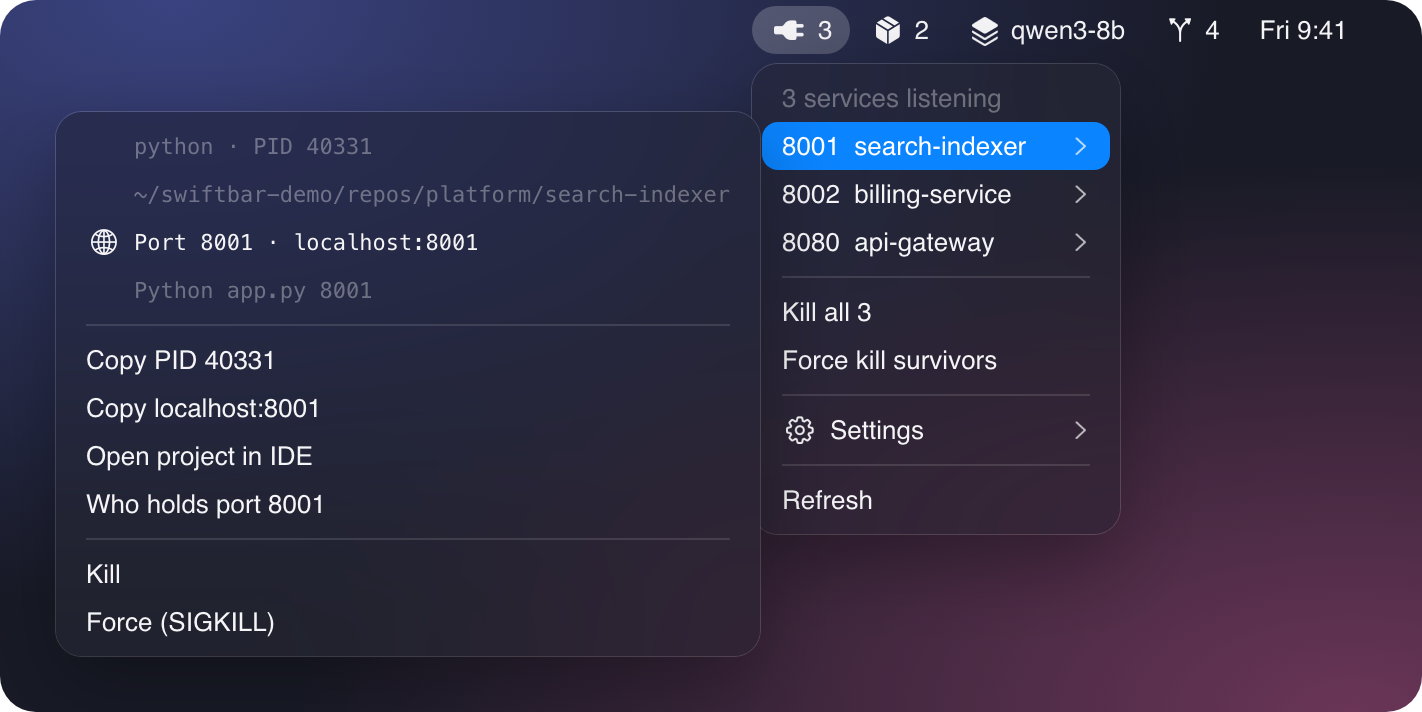
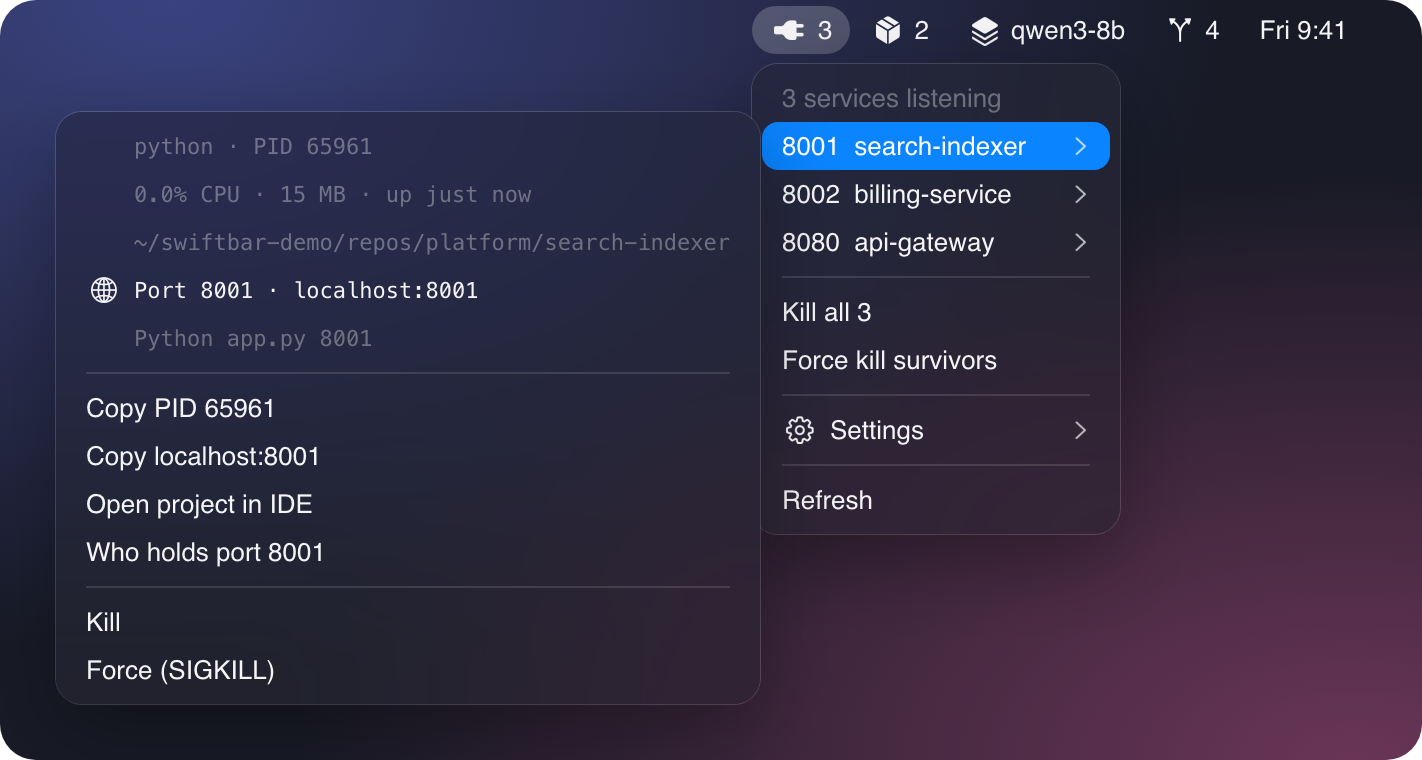
Add background fetch, pull requests and service usage

diff --git a/plugins/devports.15s.py b/plugins/devports.15s.py
@@ -281,17 +281,44 @@ def process_tree():
 
 
 def start_times(pids):
-    """{pid: process start time}. The executable name alone cannot tell two
+    """{pid: (start time, usage)}. The executable name alone cannot tell two
     processes apart — every JVM is `java` — so a recycled PID would pass the
-    kill guard. The start time is what makes the identity unique."""
+    kill guard. The start time is what makes the identity unique.
+
+    Usage rides along in the same ps call: "0.4% CPU · 38 MB · up 2 h". lstart
+    goes last because it is the one column with spaces in it."""
     if not pids:
         return {}
     out = {}
-    for line in run([PS, "-o", "pid=,lstart=", "-p", ",".join(pids)]).splitlines():
-        parts = line.strip().split(None, 1)
-        if len(parts) == 2 and parts[0].isdigit():
-            out[parts[0]] = parts[1].strip()
+    for line in run([PS, "-o", "pid=,%cpu=,rss=,etime=,lstart=", "-p", ",".join(pids)]).splitlines():
+        parts = line.strip().split(None, 4)
+        if len(parts) == 5 and parts[0].isdigit():
+            out[parts[0]] = (parts[4].strip(), usage(parts[1], parts[2], parts[3]))
     return out
+
+
+def usage(cpu, rss_kb, etime):
+    """ps's raw columns, as the submenu shows them."""
+    try:
+        mb = int(rss_kb) / 1024.0
+    except ValueError:
+        return ""
+    mem = "{:.1f} GB".format(mb / 1024) if mb >= 1024 else "{:.0f} MB".format(mb)
+    return "{}% CPU · {} · up {}".format(cpu, mem, uptime(etime))
+
+
+def uptime(etime):
+    """[[dd-]hh:]mm:ss → the same wording as the other bars: 5 min, 3 h, 2 d."""
+    days, _, rest = etime.rpartition("-")
+    fields = [int(f) for f in rest.split(":") if f.isdigit()]
+    while len(fields) < 3:
+        fields.insert(0, 0)
+    h, m = fields[0], fields[1]
+    if days.isdigit():
+        return "{} d".format(int(days))
+    if h:
+        return "{} h".format(h)
+    return "{} min".format(m) if m else "just now"
 
 
 def arguments(pids):
@@ -775,7 +802,8 @@ def main():
             "origin": came_from,
             "cmd": shown,
             "comm": os.path.basename(comm),
-            "start": starts.get(pid, ""),
+            "start": starts.get(pid, ("", ""))[0],
+            "usage": starts.get(pid, ("", ""))[1],
         })
 
     services.sort(key=lambda s: (s["primary"], s["name"]))
@@ -804,6 +832,8 @@ def main():
         if s["origin"]:
             detail += " · {}".format(s["origin"])
         print("--{} | {}".format(clean(detail), MONO))
+        if s["usage"]:
+            print("--{} | {}".format(s["usage"], MONO))
         if s["project"]:
             home = os.path.expanduser("~")
             path = s["project"]

diff --git a/README.md b/README.md
@@ -25,7 +25,7 @@ cd swiftbar-devkit && bash install.sh
 <p align="center">
   <picture>
     <source media="(prefers-color-scheme: dark)" srcset="docs/screenshots/repos-dark.png">
-    <img src="docs/screenshots/repos-light.png" alt="The four bars in the menu bar, with the Repos menu open on a repository that is behind, ahead and has changes" width="828">
+    <img src="docs/screenshots/repos-light.png" alt="The four bars in the menu bar, with the Repos menu open on a branch whose pull request has failing checks" width="750">
   </picture>
 </p>
 
@@ -54,7 +54,7 @@ fix whatever is wrong.
 <p align="center">
   <picture>
     <source media="(prefers-color-scheme: dark)" srcset="docs/screenshots/stashes-dark.png">
-    <img src="docs/screenshots/stashes-light.png" alt="A repository opened from the Repos menu, showing its stashes and branch actions" width="713">
+    <img src="docs/screenshots/stashes-light.png" alt="A repository opened from the Repos menu, showing its stashes and branch actions" width="815">
   </picture>
 </p>
 
@@ -63,7 +63,11 @@ fix whatever is wrong.
 - **Stashes** listed one by one, each with its own `show` / `apply` / `pop`.
 - **Half-finished rebases, merges and cherry-picks** are detected, and anything
   that would make them worse is hidden.
-- **Fetch all** eight at a time, and hide the repositories that are fine.
+- **Fetched in the background** every half hour, so behind/ahead are current
+  without a click — or **fetch all** yourself, eight at a time.
+- **Pull requests** for the branch you are on, with their checks and review,
+  through `gh`. A failing check marks the row.
+- **Hide the repositories that are fine**, so the rest stand out.
 - **Open in your IDE or on the remote** — a Maven module opens in IntelliJ even
   when PyCharm is what you configured.
 - **Actions guard themselves**: update refuses on a dirty tree, push refuses
@@ -78,13 +82,14 @@ system daemons are filtered out.
 <p align="center">
   <picture>
     <source media="(prefers-color-scheme: dark)" srcset="docs/screenshots/devports-dark.png">
-    <img src="docs/screenshots/devports-light.png" alt="The Dev ports menu listing services by project name, one of them opened" width="498">
+    <img src="docs/screenshots/devports-light.png" alt="The Dev ports menu listing services by project name, one opened with its CPU, memory and uptime" width="498">
   </picture>
 </p>
 
 - **Named after the project**, not the file, because entry points tend to all be
   called `main.py`.
 - **Java, Python, Node, Bun, Deno, Go.** Debug ports labelled and demoted.
+- **What each one costs**: CPU, memory and how long it has been up.
 - **Open, copy or kill**: the port in a browser, the PID on the clipboard, the
   project in your IDE.
 

diff --git a/CHANGELOG.md b/CHANGELOG.md
@@ -2,6 +2,15 @@
 
 ## [Unreleased]
 
+### Added
+- **Background fetch** in the Repos bar, every 30 minutes by default
+  (`REPOS_AUTO_FETCH_MINUTES`), so behind/ahead stay current without a click.
+  It never asks for a password: a remote that wants one is skipped.
+- **Pull requests** in the Repos bar: the open PR for each branch, with its
+  checks and review, looked up through `gh` every 5 minutes
+  (`REPOS_PR_MINUTES`). Failing checks mark the row and count as pending.
+- **CPU, memory and uptime** for every service in the Dev ports bar.
+
 ### Fixed
 - **Run them in Terminal** ran each suggested line on Return, as written: a
   commit with `"..."` as its message, and `--abort` straight after a

diff --git a/docs/screenshots/README.md b/docs/screenshots/README.md
@@ -7,8 +7,8 @@ GitHub's theme.
 
 | Image | Shows |
 | --- | --- |
-| `repos` | the four bars in the menu bar, Repos open on a repository that is behind, ahead and dirty |
+| `repos` | the four bars in the menu bar, Repos open on a branch whose pull request has failing checks |
 | `stashes` | a repository with stashes: each one, its branches and the actions on it |
-| `devports` | the services holding a port, named after their project, one opened |
+| `devports` | the services holding a port, named after their project, one opened with what it costs |
 | `colima` | the VM and its containers, one opened |
 | `llama` | the loaded model and the context window it is using |
